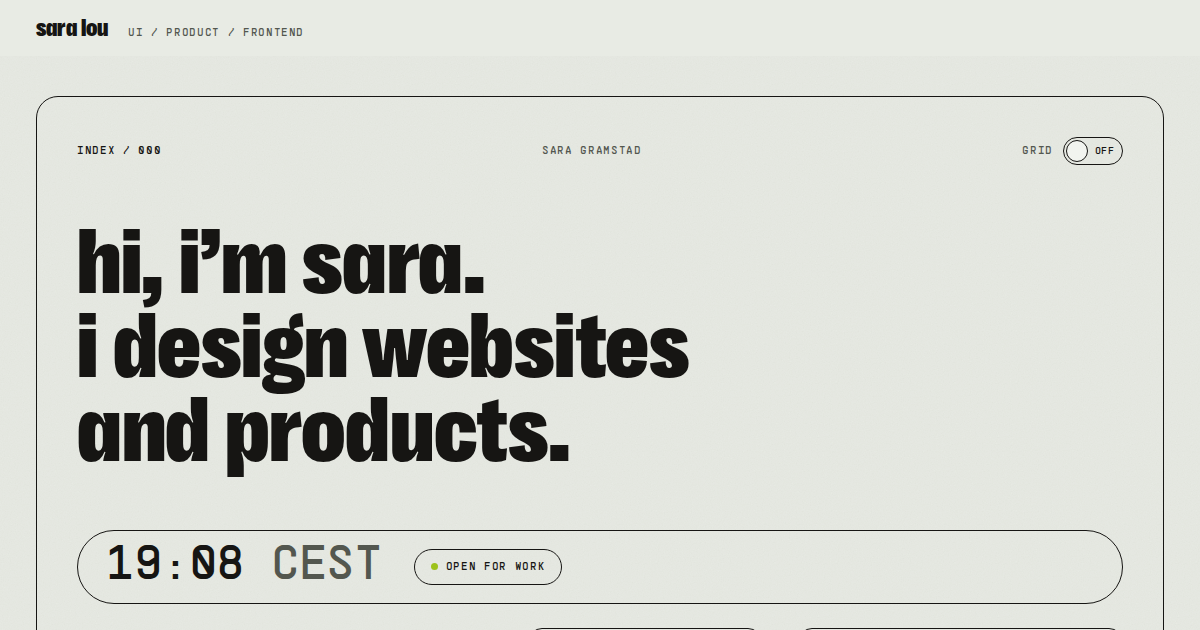
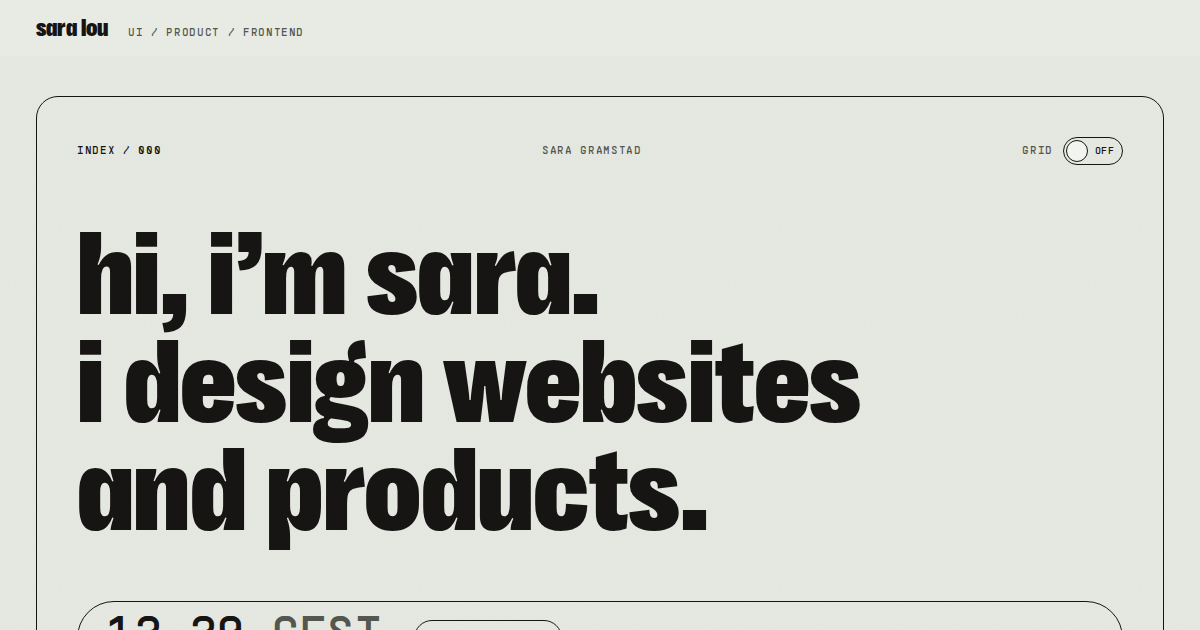
Bigger, clearer heading scale; fix Safari reveal ghost
display-xl grows to 136px on desktop (was 109) and lg/md step down
more on phones, so the levels read as distinct (phone xl/lg 1.4x, was
1.2x). xl stays sized so the hero line fits a 320px phone. The slide-up
reveals now clear their transform and the mask paints as its own layer,
fixing the stale glyph strip Safari left under the About title.
DESIGN.md gets the size table.

Claude-Session: https://claude.ai/code/session_011K1qsvehvz2pY9Y4J7gqbK

Changed region(s): [[0.0617, 0.3619, 0.925, 1.0], [0.4317, 0.9952, 0.9558, 1.0], [0.3392, 0.8746, 0.4625, 0.9048]]

diff --git a/src/styles/globals.css b/src/styles/globals.css
@@ -164,13 +164,15 @@
 
   /* Type scale → text-display-xl, text-lead, text-meta … */
   /* Display sizes are set for bold uppercase grotesk (use with .type-display) */
-  --text-display-xl: clamp(2.6rem, 0.9rem + 6.6vw, 7.25rem);
+  /* Fluid sizes: clamp(phone minimum, scales with viewport width, desktop maximum). xl is sized so the hero's
+     widest line ('i design websites') still fits a 320px phone. */
+  --text-display-xl: clamp(2.75rem, 0.6rem + 9.2vw, 8.5rem);
   --text-display-xl--line-height: 0.9;
   --text-display-xl--letter-spacing: -0.005em;
-  --text-display-lg: clamp(2.1rem, 1rem + 4.2vw, 5rem);
+  --text-display-lg: clamp(1.9rem, 0.8rem + 4.9vw, 5.75rem);
   --text-display-lg--line-height: 0.92;
   --text-display-lg--letter-spacing: 0em;
-  --text-display-md: clamp(1.6rem, 1.05rem + 2.1vw, 2.9rem);
+  --text-display-md: clamp(1.5rem, 1rem + 2vw, 2.9rem);
   --text-display-md--line-height: 0.98;
   --text-display-md--letter-spacing: 0em;
   --text-display-sm: clamp(1.25rem, 1rem + 0.9vw, 1.75rem);
@@ -399,6 +401,7 @@
 @utility reveal-line {
   display: block;
   overflow: clip;
+  contain: paint; /* its own repaint area: Safari otherwise leaves a stale frame of the slide-up in the descender strip */
   padding-bottom: 0.22em; /* room for descenders: g, p, y */
   margin-bottom: -0.22em;
 }

diff --git a/src/sections/section-hero.tsx b/src/sections/section-hero.tsx
@@ -27,7 +27,7 @@ export function SectionHero() {
 
   usePageEntrance(ref, (tl) => {
     tl.from('[data-hero="meta"] > *', { autoAlpha: 0, duration: 0.12, ease: 'none', stagger: 0.06 })
-      .from('[data-hero="line"]', { yPercent: 105, duration: 0.6, ease: 'power4.out', stagger: 0.07 }, 0.08)
+      .from('[data-hero="line"]', { yPercent: 105, duration: 0.6, ease: 'power4.out', stagger: 0.07, clearProps: 'transform' }, 0.08)
       .from('[data-hero="fade"]', { autoAlpha: 0, y: 10, duration: 0.45, ease: 'power4.out', stagger: 0.05 }, 0.3)
       .from('[data-hero="panel"]', { autoAlpha: 0, y: 12, duration: 0.5, ease: 'power4.out', stagger: 0.07 }, 0.38)
       .from('[data-hero="step"]', { autoAlpha: 0, duration: 0.12, ease: 'none', stagger: 0.06 }, 0.6)

diff --git a/src/components/layout/page-header.tsx b/src/components/layout/page-header.tsx
@@ -24,7 +24,7 @@ export function PageHeader({ eyebrow, title, lead, aside, titleSize = 'lg' }: Pa
   const ref = useRef<HTMLElement>(null)
   usePageEntrance(ref, (tl) => {
     tl.from('[data-page-header="eyebrow"]', { autoAlpha: 0, y: 8, duration: duration.slow, ease: ease.out })
-      .from('[data-page-header="title"]', { yPercent: 105, duration: 0.62, ease: ease.out }, 0.04)
+      .from('[data-page-header="title"]', { yPercent: 105, duration: 0.62, ease: ease.out, clearProps: 'transform' }, 0.04)
       .from('[data-page-header="fade"]', { autoAlpha: 0, y: 10, duration: 0.5, ease: ease.out, stagger: 0.05 }, 0.22)
   })
   return (

diff --git a/DESIGN.md b/DESIGN.md
@@ -88,6 +88,17 @@ Three Pangram Pangram families, chosen 2026-10-06 (combo C). Licensed for web us
 | Label / bracket | PP Supply Mono, caps | `type-label` | 11px, tracking 0.06em |
 | Button | PP Supply Mono Medium, caps | `Button` | tracking 0.04em |
 
+**Sizes are fluid** (`clamp()` in `globals.css`): each grows with the screen between a phone minimum and a desktop maximum.
+
+| Token | 320–375 px | 390 px | 768 px | 1024 px | 1440 px+ |
+| --- | --- | --- | --- | --- | --- |
+| `display-xl` | 44 | 45 | 80 | 104 | 136 |
+| `display-lg` | 30–31 | 32 | 50 | 63 | 83 |
+| `display-md` | 24 | 24 | 31 | 36 | 45 |
+| `display-sm` | 20 | 20 | 23 | 25 | 28 |
+
+xl's phone size is capped by the hero: "i design websites" must fit on one line on a 320 px phone. Each step is about 1.3–1.6× the next, so the levels read as clearly different.
+
 **Files used (and the only ones published):** `PPRightGrotesk-CompactBlack`, `PPMori-Regular`, `PPMori-Italic`, `PPMori-Semibold`, `PPSupplyMono-Regular`, `PPSupplyMono-Medium` (`.woff2`).
 
 **Where they come from:** the private repo `saragram-ux/fonts`. `scripts/fonts.sh` copies exactly those six into `public/fonts/pp/` (git-ignored). The deploy does this with the `FONTS_TOKEN` secret; locally, run `scripts/fonts.sh ../fonts` after cloning the fonts repo next to this one. Faces are declared in `src/styles/fonts.css`.
